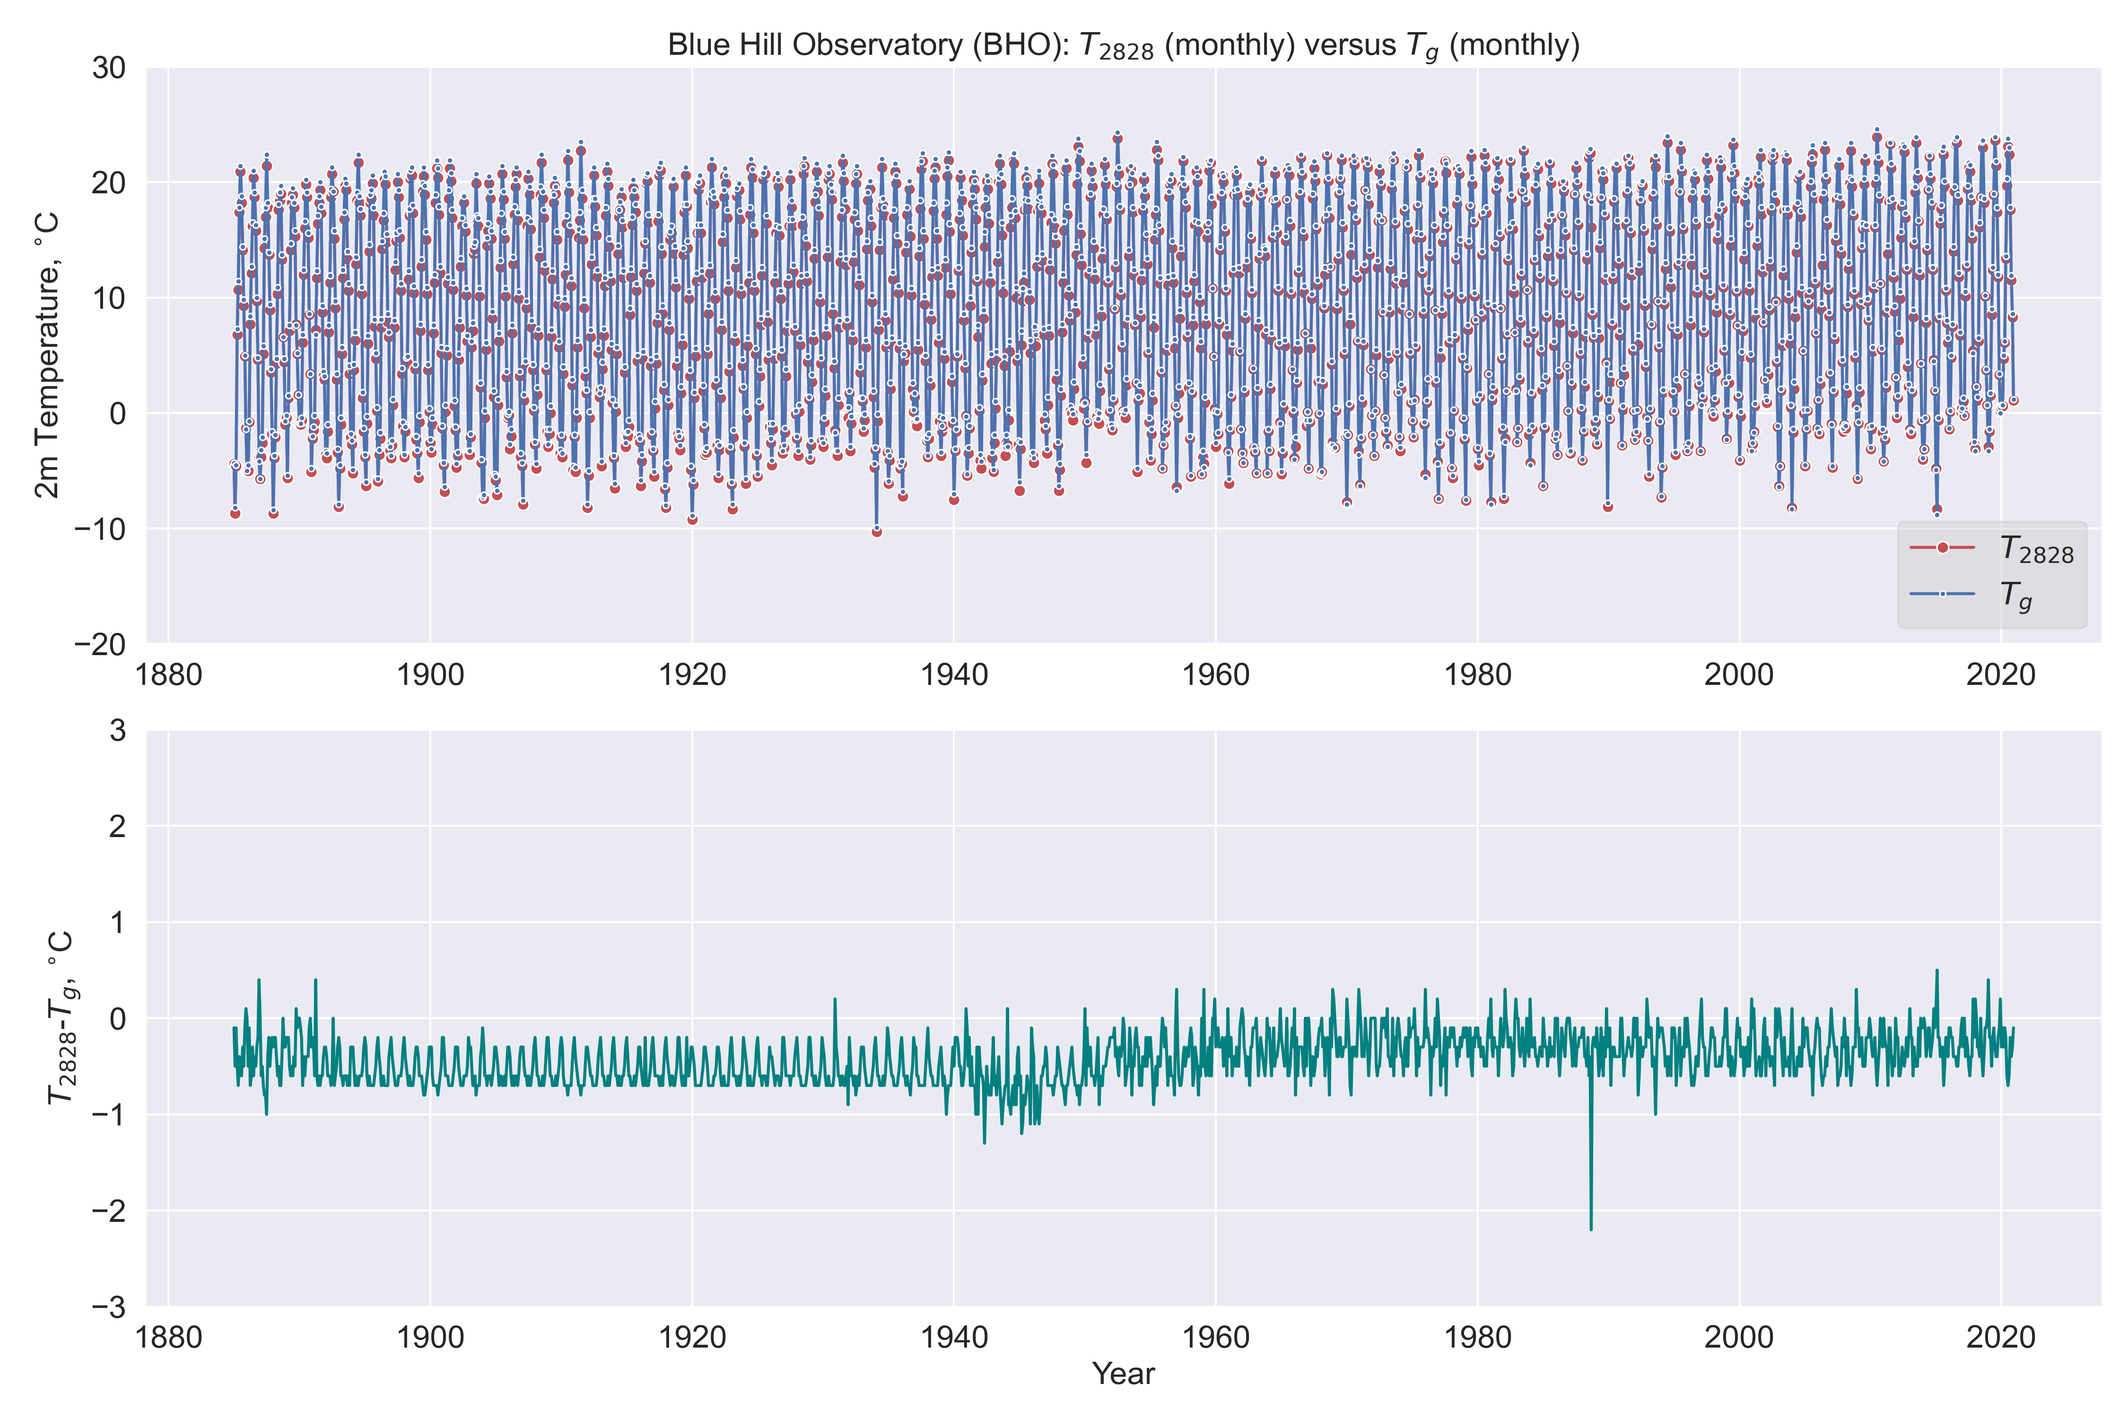
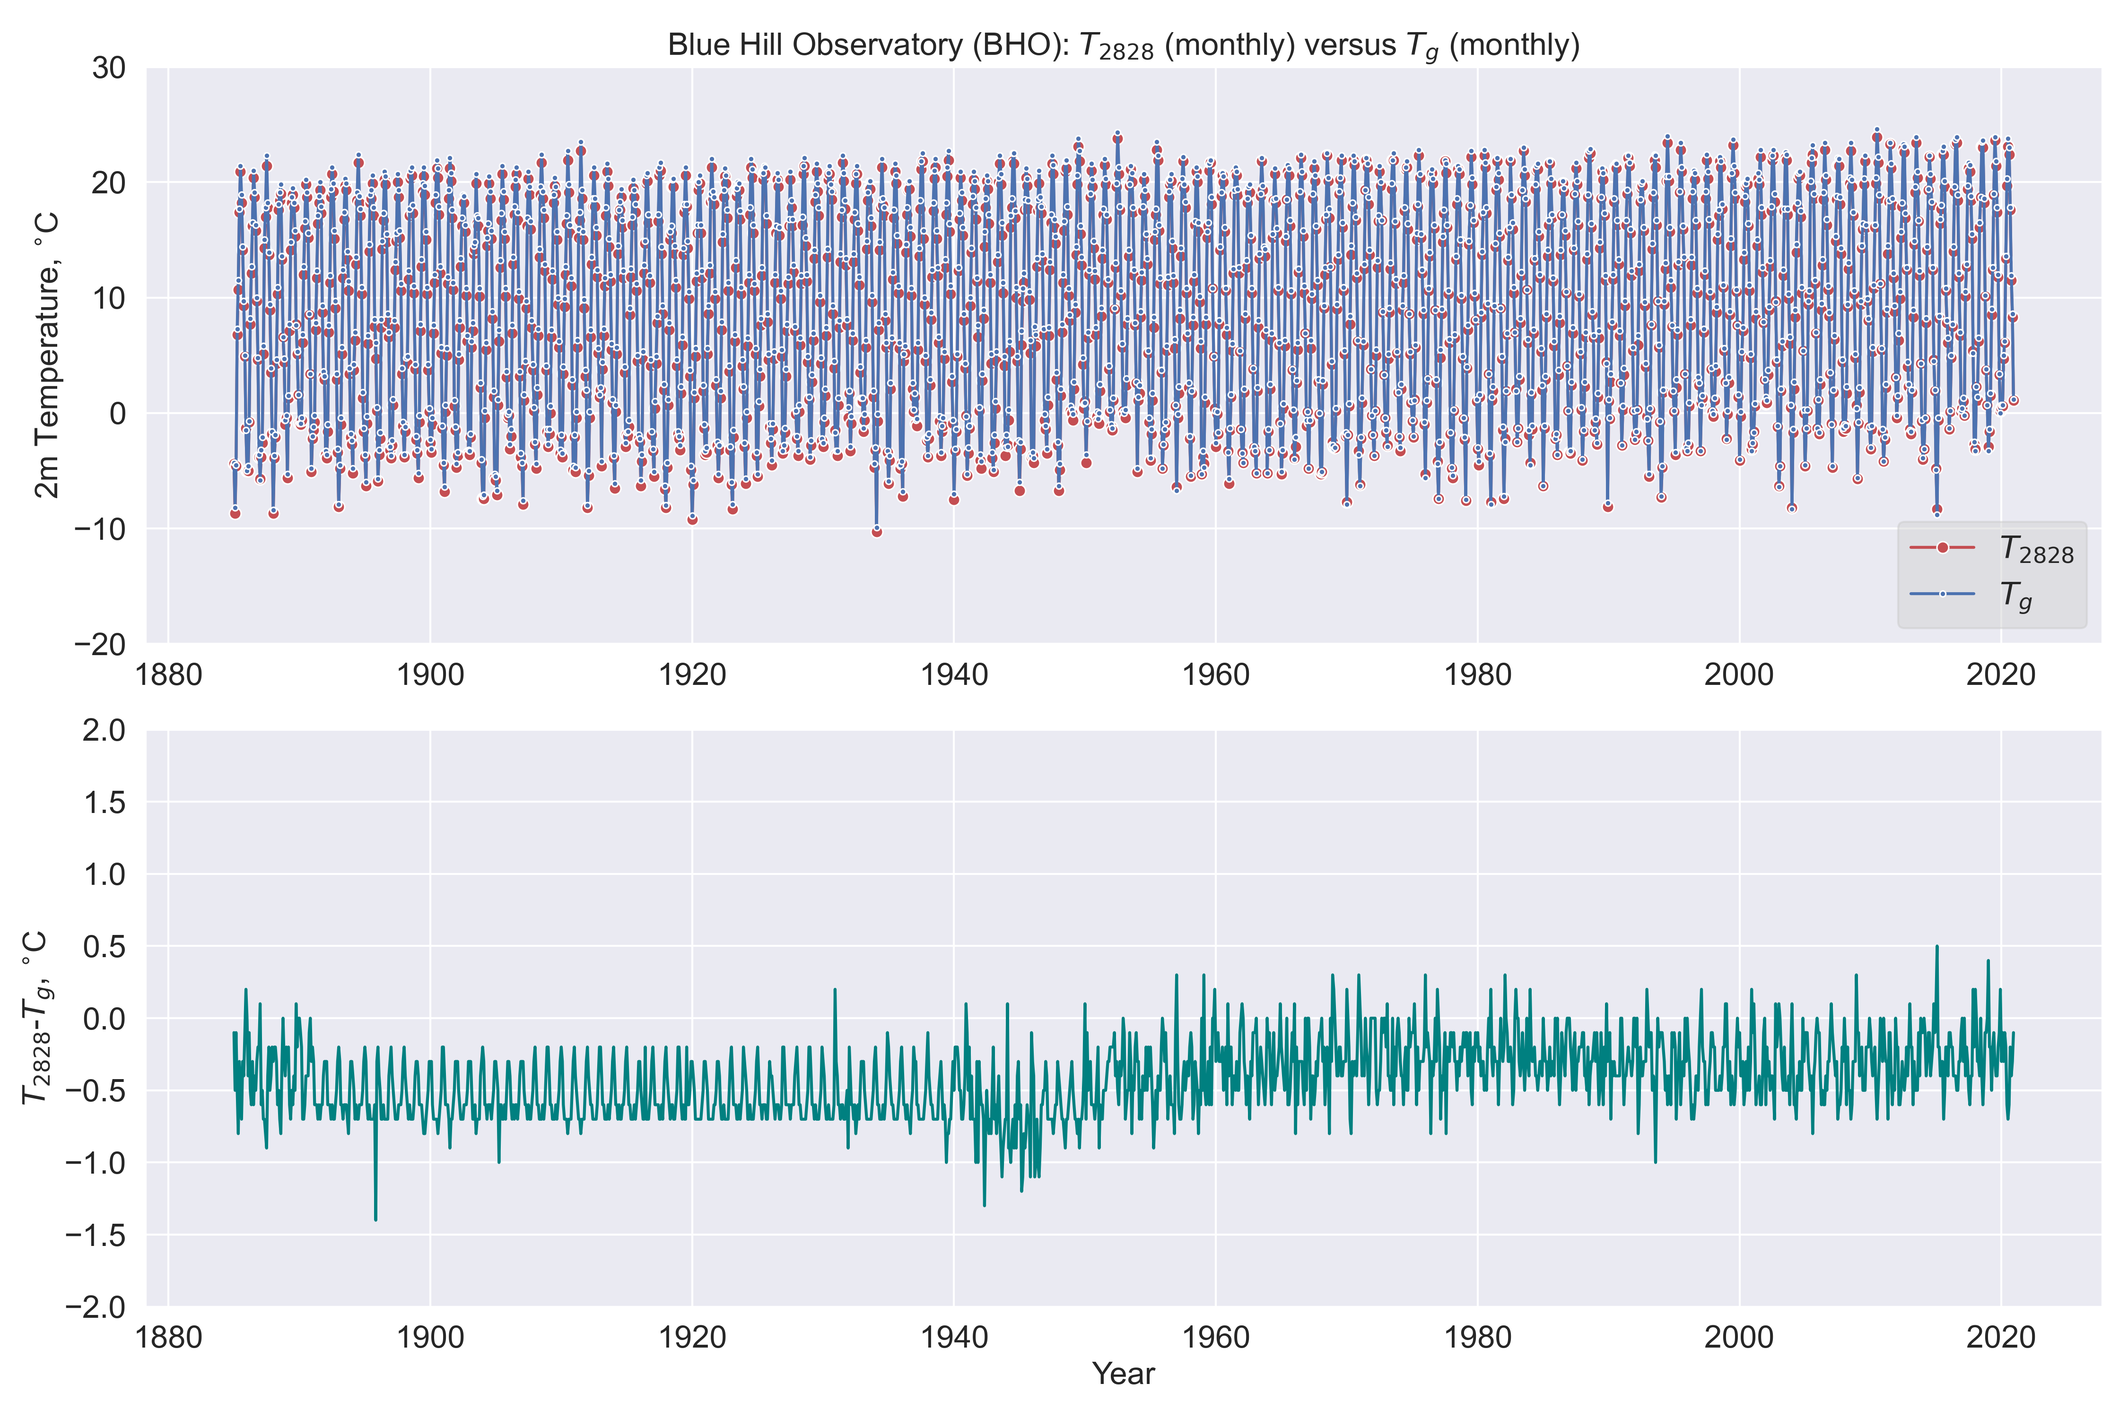
Added station inventory plotting routine

diff --git a/load-new-england-datasets.py b/load-new-england-datasets.py
@@ -63,6 +63,7 @@ from subprocess import Popen
 import time
 
 # Stats libraries:
+import random
 from sklearn import datasets, linear_model
 from sklearn.linear_model import LinearRegression, TheilSenRegressor
 from sklearn.linear_model import RANSACRegressor
@@ -132,14 +133,51 @@ def centigrade_to_fahrenheit(x):
 
 def is_leap_and_29Feb(s):
     return (s.index.year % 4 == 0) & ((s.index.year % 100 != 0) | (s.index.year % 400 == 0)) & (s.index.month == 2) & (s.index.day == 29)
-
+    
+#------------------------------------------------------------------------------    
+# LOAD: GloSAT absolute temperature archive: CRUTEM5.0.1.0
 #------------------------------------------------------------------------------
-#if flag_stophere == True:
-#    break
-#else:
-#    continue        
-#------------------------------------------------------------------------------
+    
+print('loading temperatures ...')
+    
+df_temp = pd.read_pickle('DATA/df_temp.pkl', compression='bz2')    
 
+
+stationcode_salem_cgar = ''
+stationcode_salem_b = ''
+stationcode_boston = ''
+stationcode_new_salem = ''
+stationcode_boston_city_wso = '725092'
+stationcode_blue_hill = '744920'
+stationcode_bedford = '720219'
+stationcode_lawrence = '720222'
+stationcode_amherst = '720218'
+stationcode_providence_wso = '725070'
+stationcode_worcester = ''
+
+da_salem_cgar = df_temp.columns # USC00197124	SALEM COAST GUARD AIR STATION, MA US 1948-1967
+da_salem_b = df_temp.columns # USC00197122	SALEM B, MA US 1885-1909
+da_boston = df_temp.columns # USW00014739	BOSTON, MA US 1936-2021
+da_new_salem = df_temp.columns # USC00195306	NEW SALEM, MA US 1897-1998
+da_boston_city_wso = df_temp[df_temp['stationcode']==stationcode_boston_city_wso] # USW00094701	BOSTON CITY WEATHER SERVICE OFFICE, MA US 1893-1935
+da_blue_hill = df_temp[df_temp['stationcode']==stationcode_blue_hill] # USC00190736		BLUE HILL COOP, MA US 1893-2021
+da_bedford = df_temp[df_temp['stationcode']==stationcode_bedford] # USC00190538		BEDFORD, MA US 1893-1923
+da_lawrence = df_temp[df_temp['stationcode']==stationcode_lawrence] # USC00194105	LAWRENCE, MA US 1893-2021
+da_amherst = df_temp[df_temp['stationcode']==stationcode_amherst] # USC00190120	AMHERST, MA US 1893-2021
+da_providence_wso =df_temp[df_temp['stationcode']==stationcode_providence_wso] # USC00376712	PROVIDENCE 2, RI US 1893-1913
+da_worcester = df_temp.columns # USC00199928	WORCESTER, MA US 1892-1962
+
+# USC00197124	SALEM COAST GUARD AIR STATION, MA US 1948-1967
+# USC00197122	SALEM B, MA US 1885-1909
+# USW00014739	BOSTON, MA US 1936-2021
+# USC00195306	NEW SALEM, MA US 1897-1900
+# USW00094701	BOSTON CITY WEATHER SERVICE OFFICE, MA US 1893-1935
+# USC00190736	BLUE HILL COOP, MA US 1893-2021
+# USC00190538	BEDFORD, MA US 1893-1923
+# USC00194105	LAWRENCE, MA US 1893-2021
+# USC00190120	AMHERST, MA US 1893-2021
+# USC00376712	PROVIDENCE 2, RI US 1893-1913
+# USC00199928	WORCESTER, MA US 1892-1962
 
 #==============================================================================
             
@@ -798,8 +836,6 @@ else:
     
     df_neighbouring_stations = pd.DataFrame(columns = df_reordered.columns)    
     for i in range(Nstations):        
-        if (i==3) | (i==5): # exclude short series: USC00194105 (Boston WSO) and USC00197122 (Lawrence)
-            continue        
         stationcode = df_reordered[df_reordered['STATION']==df_reordered['STATION'].unique()[i]]['STATION']
         stationname = df_reordered[df_reordered['STATION']==df_reordered['STATION'].unique()[i]]['NAME']
         stationlat = df_reordered[df_reordered['STATION']==df_reordered['STATION'].unique()[i]]['LATITUDE']
@@ -809,6 +845,8 @@ else:
         xmax = df_reordered[df_reordered['STATION']==df_reordered['STATION'].unique()[i]]['TMAX']
         xavg = df_reordered[df_reordered['STATION']==df_reordered['STATION'].unique()[i]]['TAVG']    
         t = df_reordered[df_reordered['STATION']==df_reordered['STATION'].unique()[i]].index
+        if ((len(t)/365) < 20.0):
+             continue
         if np.nanmean(xmin) > 20: # Fahrenheit detection in Boston
             ymin = fahrenheit_to_centigrade(xmin)   
             ymax = fahrenheit_to_centigrade(xmax)           
@@ -840,8 +878,6 @@ else:
     df_neighbouring_stations.to_csv('df_neighbouring_stations.csv')
 
 Nstations = df_neighbouring_stations.groupby('STATION').count().shape[0]
-uniquestations = df_neighbouring_stations.groupby('STATION').mean().index
-uniquenames = df_neighbouring_stations.groupby('NAME').mean().index
 
 #------------------------------------------------------------------------------
 # PLOTS
@@ -939,7 +975,7 @@ axs[1].sharex(axs[0])
 axs[1].tick_params(labelsize=fontsize)    
 axs[1].set_xlabel('Year', fontsize=fontsize)
 axs[1].set_ylabel(r'$T_{2828}$-$T_{g}$, $^{\circ}$C', fontsize=fontsize)
-axs[1].set_ylim(-3,3)
+axs[1].set_ylim(-2,2)
 fig.tight_layout()
 plt.savefig(figstr, dpi=300)
 plt.close('all')
@@ -983,7 +1019,7 @@ axs[1].sharex(axs[0])
 axs[1].tick_params(labelsize=fontsize)    
 axs[1].set_xlabel('Year', fontsize=fontsize)
 axs[1].set_ylabel(r'$T_{g}$ (from daily) - $T_{g}$ (monthly), $^{\circ}$C', fontsize=fontsize)
-axs[1].set_ylim(-3,3)
+axs[1].set_ylim(-2,2)
 fig.tight_layout()
 plt.savefig(figstr, dpi=300)
 plt.close('all')
@@ -993,7 +1029,7 @@ plt.close('all')
 print('plotting neighbouring station distributions of Tn,Tg and Tx ...')
     
 figstr = 'neighbouring-stations-distributions.png'
-titlestr = 'GHCN-D stations in the Boston, MA area: KDE distributions of monthly $T_{n}$, $T_{g}$ and $T_{x}$'
+titlestr = 'GHCN-D stations in the Boston area: KDE distributions of monthly $T_{n}$, $T_{g}$ and $T_{x}$'
 
 # DEDUCE: row and column index for loop over subplots
 
@@ -1026,6 +1062,7 @@ for i in range(nrows*ncols):
     ymin = df_neighbouring_stations[df_neighbouring_stations['STATION']==df_neighbouring_stations['STATION'].unique()[i]]['TMIN']
     ymax = df_neighbouring_stations[df_neighbouring_stations['STATION']==df_neighbouring_stations['STATION'].unique()[i]]['TMAX']
     yavg = df_neighbouring_stations[df_neighbouring_stations['STATION']==df_neighbouring_stations['STATION'].unique()[i]]['TAVG']    
+    stationcode = df_neighbouring_stations[df_neighbouring_stations['STATION']==df_neighbouring_stations['STATION'].unique()[i]]['STATION'][0] 
     t = df_neighbouring_stations[df_neighbouring_stations['STATION']==df_neighbouring_stations['STATION'].unique()[i]].index
     c = i%ncols
     if (i > 0) & (c == 0):
@@ -1046,7 +1083,7 @@ for i in range(nrows*ncols):
     else:
         g.axes.set_ylabel('', fontsize=fontsize)
         g.axes.set_yticklabels([])
-    g.axes.set_title('STATION='+uniquestations[i], fontsize=fontsize)
+    g.axes.set_title('STATION='+stationcode, fontsize=fontsize)
     g.axes.tick_params(labelsize=fontsize)    
     g.axes.legend(loc='upper right', ncol=1, markerscale=1, facecolor='lightgrey', framealpha=0.5, fontsize=12)    
     
@@ -1061,7 +1098,7 @@ plt.close('all')
 print('plotting neighbouring station monthly-averaged timeseries of Tn,Tg and Tx ...')
     
 figstr = 'neighbouring-stations-timeseries-1m-average.png'
-titlestr = 'GHCN-D stations in the Boston, MA area: timeseries of monthly-averaged $T_{n}$, $T_{g}$ and $T_{x}$'
+titlestr = 'GHCN-D stations in the Boston area: timeseries of monthly-averaged $T_{n}$, $T_{g}$ and $T_{x}$'
 
 # DEDUCE: row and column index for loop over subplots
 
@@ -1078,6 +1115,7 @@ for i in range(nrows*ncols):
     ymin = df_neighbouring_stations[df_neighbouring_stations['STATION']==df_neighbouring_stations['STATION'].unique()[i]]['TMIN']
     ymax = df_neighbouring_stations[df_neighbouring_stations['STATION']==df_neighbouring_stations['STATION'].unique()[i]]['TMAX']
     yavg = df_neighbouring_stations[df_neighbouring_stations['STATION']==df_neighbouring_stations['STATION'].unique()[i]]['TAVG']    
+    stationcode = df_neighbouring_stations[df_neighbouring_stations['STATION']==df_neighbouring_stations['STATION'].unique()[i]]['STATION'][0] 
     t = df_neighbouring_stations[df_neighbouring_stations['STATION']==df_neighbouring_stations['STATION'].unique()[i]].index
     c = i%ncols
     if (i > 0) & (c == 0):
@@ -1102,7 +1140,7 @@ for i in range(nrows*ncols):
         g.axes.set_ylabel(r'2m Temperature, $^{\circ}$C', fontsize=fontsize)
     else:
         g.axes.set_yticklabels([])
-    g.axes.set_title('STATION='+uniquestations[i], fontsize=fontsize)
+    g.axes.set_title('STATION='+stationcode, fontsize=fontsize)
     g.axes.tick_params(labelsize=fontsize)    
     g.axes.legend(loc='lower right', ncol=1, markerscale=1, facecolor='lightgrey', framealpha=0.5, fontsize=12)    
 
@@ -1117,7 +1155,7 @@ plt.close('all')
 print('plotting neighbouring station 2yr-averaged timeseries of Tn,Tg and Tx ...')
     
 figstr = 'neighbouring-stations-timeseries-24m-average.png'
-titlestr = 'GHCN-D stations in the Boston, MA area: timeseries of 24m-averaged $T_{n}$, $T_{g}$ and $T_{x}$'
+titlestr = 'GHCN-D stations in the Boston area: timeseries of 24m-averaged $T_{n}$, $T_{g}$ and $T_{x}$'
 
 # DEDUCE: row and column index for loop over subplots
 
@@ -1133,7 +1171,8 @@ for i in range(nrows*ncols):
         continue
     ymin = df_neighbouring_stations[df_neighbouring_stations['STATION']==df_neighbouring_stations['STATION'].unique()[i]]['TMIN']
     ymax = df_neighbouring_stations[df_neighbouring_stations['STATION']==df_neighbouring_stations['STATION'].unique()[i]]['TMAX']
-    yavg = df_neighbouring_stations[df_neighbouring_stations['STATION']==df_neighbouring_stations['STATION'].unique()[i]]['TAVG']    
+    yavg = df_neighbouring_stations[df_neighbouring_stations['STATION']==df_neighbouring_stations['STATION'].unique()[i]]['TAVG'] 
+    stationcode = df_neighbouring_stations[df_neighbouring_stations['STATION']==df_neighbouring_stations['STATION'].unique()[i]]['STATION'][0]     
     t = df_neighbouring_stations[df_neighbouring_stations['STATION']==df_neighbouring_stations['STATION'].unique()[i]].index
     c = i%ncols
     if (i > 0) & (c == 0):
@@ -1158,7 +1197,7 @@ for i in range(nrows*ncols):
         g.axes.set_ylabel(r'2m Temperature, $^{\circ}$C', fontsize=fontsize)
     else:
         g.axes.set_yticklabels([])
-    g.axes.set_title('STATION='+uniquestations[i], fontsize=fontsize)
+    g.axes.set_title('STATION='+stationcode, fontsize=fontsize)
     g.axes.tick_params(labelsize=fontsize)    
     g.axes.legend(loc='lower right', ncol=1, markerscale=1, facecolor='lightgrey', framealpha=0.5, fontsize=12)    
 
@@ -1168,41 +1207,86 @@ fig.tight_layout()
 plt.savefig(figstr, dpi=300)
 plt.close('all')
 
-# PLOT: Tg (hourly) + Salem (daily)
+# PLOT: inventory
 
-print('plotting neighbouring stations: Tmean ...')
+print('plotting station inventory bar chart ...')
     
-figstr = 'neighbouring-stations-tmean.png'
-titlestr = 'GHCN-D stations within 1 degree of Boston: hourly $T_g$ (1m-MA) versus daily obs from Holyoke record'
+figstr = 'neighbouring-stations-inventory.png'
+titlestr = 'GHCN-D stations in the Boston area: inventory bar chart in the style of Havens (1958)'
 
 fig,ax = plt.subplots(figsize=(15,10))
-for i in range(Nstations):        
-#    if i==9:
-#        continue    
-    ymin = df_neighbouring_stations[df_neighbouring_stations['STATION']==df_neighbouring_stations['STATION'].unique()[i]]['TMIN']
-    ymax = df_neighbouring_stations[df_neighbouring_stations['STATION']==df_neighbouring_stations['STATION'].unique()[i]]['TMAX']
-    yavg = df_neighbouring_stations[df_neighbouring_stations['STATION']==df_neighbouring_stations['STATION'].unique()[i]]['TAVG']    
-    t = df_neighbouring_stations[df_neighbouring_stations['STATION']==df_neighbouring_stations['STATION'].unique()[i]].index
-    plt.plot(t, pd.Series(yavg).rolling(24*31, center=True).mean(), '.', alpha=0.5, ls='-', lw=0.5, label=uniquestations[i]+': '+uniquenames[i])
-    
-plt.plot(df_holyoke.index, df_holyoke['T(08:00)'], '.', alpha=0.1, ls='-', lw=0.5, label='Holyoke: daily T(08:00)')
-plt.plot(df_holyoke.index, df_holyoke['T(13:00)'], '.', alpha=0.1, ls='-', lw=0.5, label='Holyoke: daily T(13:00)')
-plt.plot(df_holyoke.index, df_holyoke['T(22:00)'], '.', alpha=0.1, ls='-', lw=0.5, label='Holyoke: daily T(22:00)')
-plt.plot(df_holyoke.index, df_holyoke['T(sunset)'], '.', alpha=0.1, ls='-', lw=0.5, label='Holyoke: daily T(sunset)')    
-plt.axhline(y=np.nanmean(df_holyoke['T(08:00)']), ls='dashed', color='blue')
-plt.axhline(y=np.nanmean(df_holyoke['T(13:00)']), ls='dashed', color='orange')
-plt.axhline(y=np.nanmean(df_holyoke['T(22:00)']), ls='dashed', color='green')
-plt.axhline(y=np.nanmean(df_holyoke['T(sunset)']), ls='dashed', color='red')
-        
-plt.tick_params(labelsize=16)    
-#plt.xlabel('Year', fontsize=fontsize)
-plt.ylabel(r'2m-Temperature, [$^{\circ}$C]', fontsize=fontsize)
+
+dg = df_neighbouring_stations.copy().sort_index()
+stationcodes = dg['STATION'].unique()
+categories = stationcodes
+cat_dict = dict(zip(categories, range(1, len(categories)+1))) # map categories to y-values
+val_dict = dict(zip(range(1, len(categories)+1), categories)) # map y-values to categories
+
+# SAMPLE: discrete colours from colornap
+
+cmap = matplotlib.cm.get_cmap('viridis')
+colsteps = np.linspace(0,1,len(categories))
+colors = [ cmap(colsteps[i]) for i in range(len(colsteps)) ]
+#colors = len(colsteps)*[colors[len(colsteps)%2]] # for a single colour from middle of colormap
+col_dict = dict(zip(range(1, len(categories)+1), colors)) # map y-values to categories
+
+dates = dg.index
+#dates = pd.date_range(start='2021-01-01 00:00', end='2021-05-01 00:00', freq='1D')
+#random_sanple = [random.randint(1, len(categories)) for p in range(1,len(dates)+1)]
+#random_sample = [random.randint(1,2) for p in range(1,len(dates)+1)]
+#values = [val_dict[random_sample[i]] for i in range(len(dates))]
+values = [dg['STATION'][i] for i in range(len(dates))]
+df = pd.DataFrame(data=values, index=dates, columns=['category'])
+
+#color_mapper = np.vectorize(lambda x: {1: 'red', 2: 'blue'}.get(x))
+color_mapper = np.vectorize(lambda x: col_dict.get(x))
+df['plotval'] = df['category'].apply(cat_dict.get) # get y-values from categories
+#colors = [str(color_mapper(df['plotval'][i])) for i in range(len(df))]
+colors = [np.array(color_mapper(df['plotval'][i])) for i in range(len(df))]
+
+#for i in range(len(df)):    
+for i in np.arange(0,len(df),31):    
+    plt.plot(df.index[i], df['plotval'][i], marker='s', markersize=20, color=colors[i])
+
+#ax.margins(0.2)
+ax.yaxis.set_major_formatter(plt.FuncFormatter(lambda x, pos: val_dict.get(x))) # format y-ticks using category LUT
+plt.tick_params(labelsize=fontsize)    
 plt.title(titlestr, fontsize=fontsize)
-plt.legend(loc='lower left', bbox_to_anchor=(0, -0.6), ncol=2, markerscale=3, facecolor='lightgrey', framealpha=1, fontsize=12)    
-fig.subplots_adjust(left=None, bottom=0.4, right=None, top=None, wspace=None, hspace=None)             
+fig.tight_layout()
 plt.savefig(figstr, dpi=300)
 plt.close('all')
+
+#y, c, x1, x2 = np.loadtxt('test_data.csv', unpack=True)
+#y = np.ones(len(c))
+#color_mapper = np.vectorize(lambda x: {0: 'red', 1: 'Blue'}.get(x))
+#plt.hlines(c, x1, x2, colors=color_mapper(c), lw=10)
+#plt.hlines(y, x1, x2, colors=color_mapper(c), lw=10)
+
+
+
+
+# OUTLIER: check
+
+#x = df_bho_daily[(df_bho_daily.index>pd.to_datetime(1987, format='%Y')) & (df_bho_daily.index<pd.to_datetime(1990, format='%Y'))]
+
+#fig,ax = plt.subplots(figsize=(15,10))
+#ax.xaxis.set_major_formatter(mdates.DateFormatter('%Y-%m'))
+#plt.plot(pd.date_range(start='1987-02-01', periods=len(x)), x['Tmin'], color='blue', alpha=0.2, label='Tn[daily]')
+#plt.plot(pd.date_range(start='1987-02-01', periods=len(x), freq='D'), x['Tg'], color='purple', alpha=0.2, label='Tg[daily]')
+#plt.plot(pd.date_range(start='1987-02-01', periods=len(x)), x['Tmax'], color='red', alpha=0.2, label='Tx[daily]')
+#plt.plot(pd.date_range(start='1987-03-01', periods=len(y), freq='MS'), y['Tg'], '.', color='b', ls='-', lw=3, label='Tg[monthly]')
+#plt.plot(pd.date_range(start='1987-03-01', periods=len(y), freq='MS'), y['Tgm'], ',', color='r', ls='_', lw=3, label='Tg[from daily]')
+#plt.legend()
+#plt.savefig('outlier_case_20210615.png', dpi=300)
+#plt.close('all')
+
 
 #------------------------------------------------------------------------------
 print('** END')
 
+#------------------------------------------------------------------------------
+#if flag_stophere == True:
+#    break
+#else:
+#    continue        
+#------------------------------------------------------------------------------
